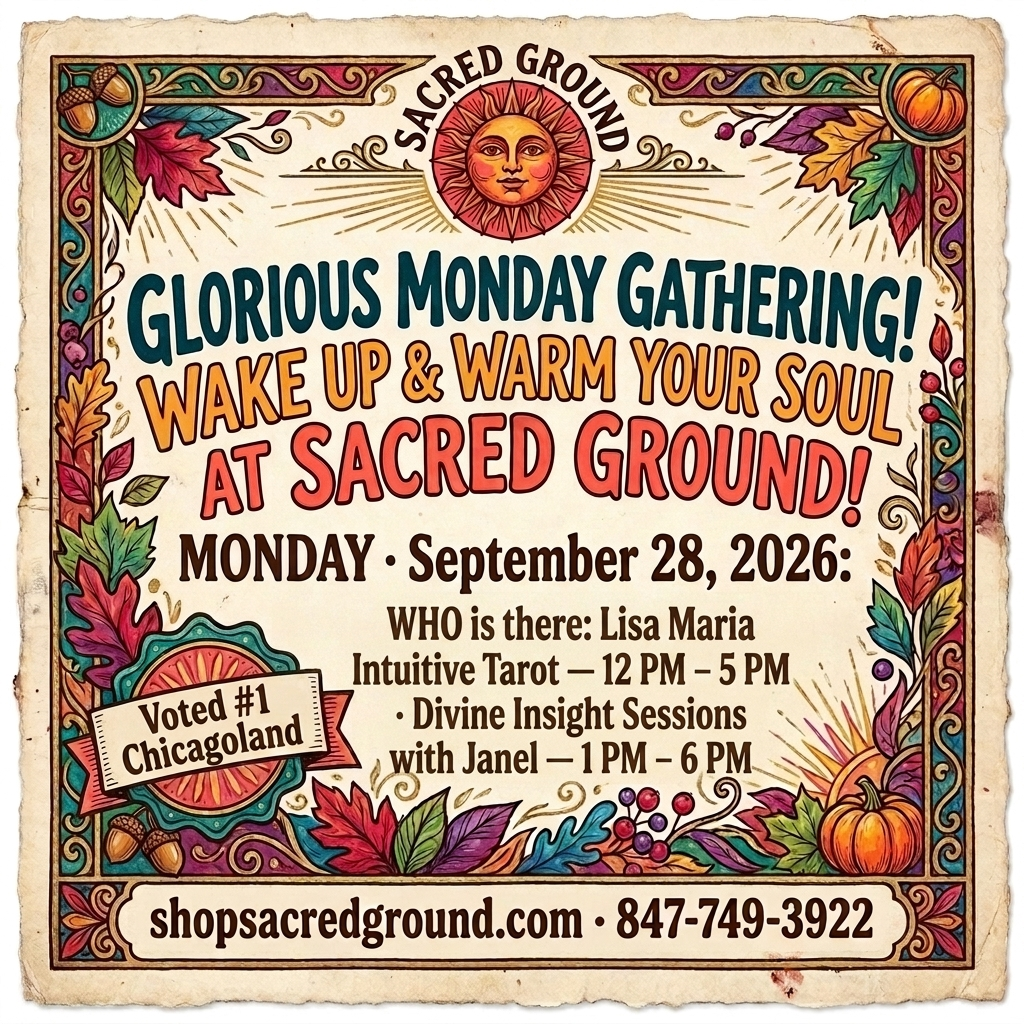
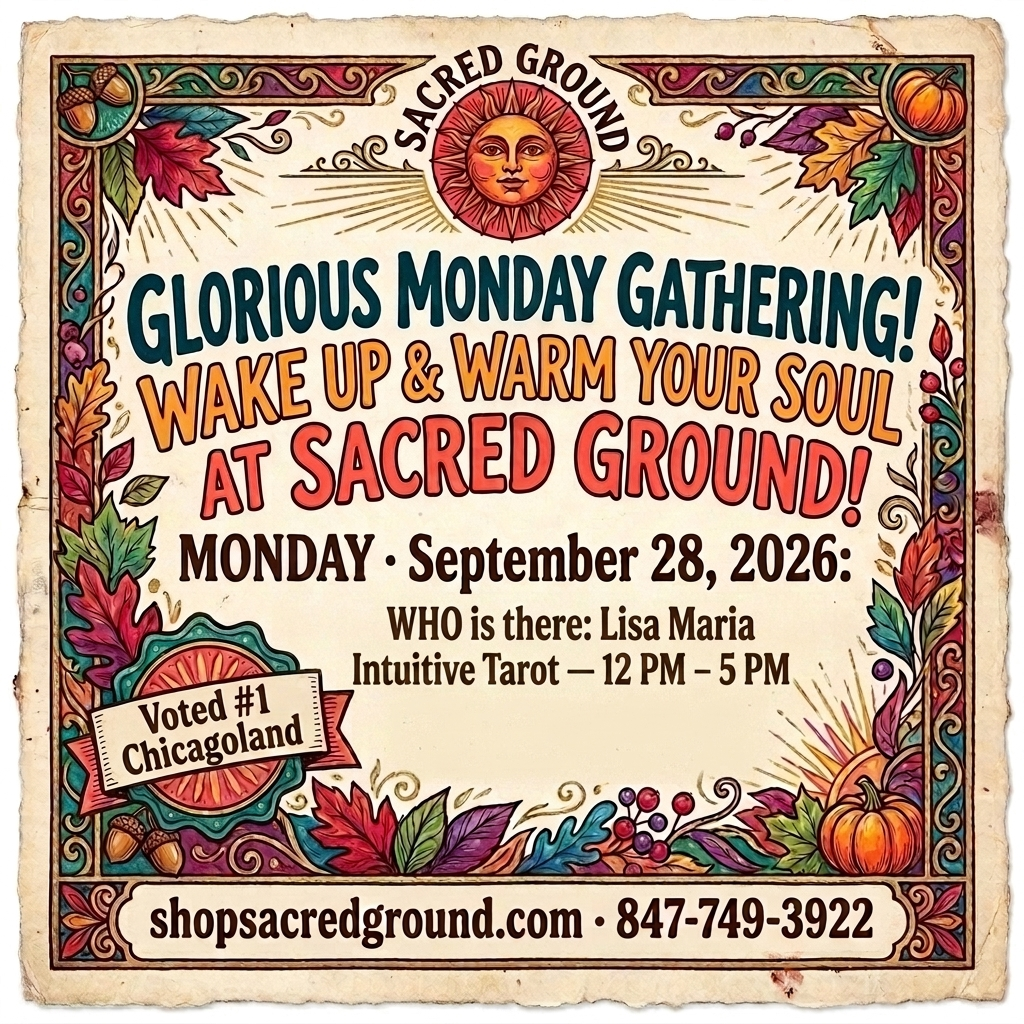
Move Janel Divine Insight from Sep 28 morning to Sep 30.
Sep 28 is Lisa Maria only; Sep 30 lists Janel 1–5 with Frequency Reset 3–8.

Changed region(s): [[0.375, 0.6562, 0.75, 0.7812]]

diff --git a/assets/SEPTEMBER-FLYERS/LATE-SEP.html b/assets/SEPTEMBER-FLYERS/LATE-SEP.html
@@ -15,7 +15,7 @@ img{width:100%;aspect-ratio:1;object-fit:cover;display:block}
 <a class="card" href="2026-09-25.jpg" target="_blank"><img src="2026-09-25.jpg" alt="Sep 25"/><div class="cap"><b>Fri · Sep 25</b>Robert · Kate chakra · Sacred Creations</div></a>
 <a class="card" href="2026-09-26.jpg" target="_blank"><img src="2026-09-26.jpg" alt="Sep 26"/><div class="cap"><b>Sat · Sep 26</b>Melissa · Tina · Lisa Maria · Robert</div></a>
 <a class="card" href="2026-09-27.jpg" target="_blank"><img src="2026-09-27.jpg" alt="Sep 27"/><div class="cap"><b>Sun · Sep 27</b>Mary · Diane · Divine Space</div></a>
-<a class="card" href="2026-09-28.jpg" target="_blank"><img src="2026-09-28.jpg" alt="Sep 28"/><div class="cap"><b>Mon · Sep 28</b>Lisa Maria · Janel</div></a>
+<a class="card" href="2026-09-28.jpg" target="_blank"><img src="2026-09-28.jpg" alt="Sep 28"/><div class="cap"><b>Mon · Sep 28</b>Lisa Maria only</div></a>
 <a class="card" href="2026-09-29.jpg" target="_blank"><img src="2026-09-29.jpg" alt="Sep 29"/><div class="cap"><b>Tue · Sep 29</b>Amber · Tina · Meditation</div></a>
-<a class="card" href="2026-09-30.jpg" target="_blank"><img src="2026-09-30.jpg" alt="Sep 30"/><div class="cap"><b>Wed · Sep 30</b>Frequency Reset</div></a>
+<a class="card" href="2026-09-30.jpg" target="_blank"><img src="2026-09-30.jpg" alt="Sep 30"/><div class="cap"><b>Wed · Sep 30</b>Janel 1–5 · Frequency Reset</div></a>
 </div></body></html>
